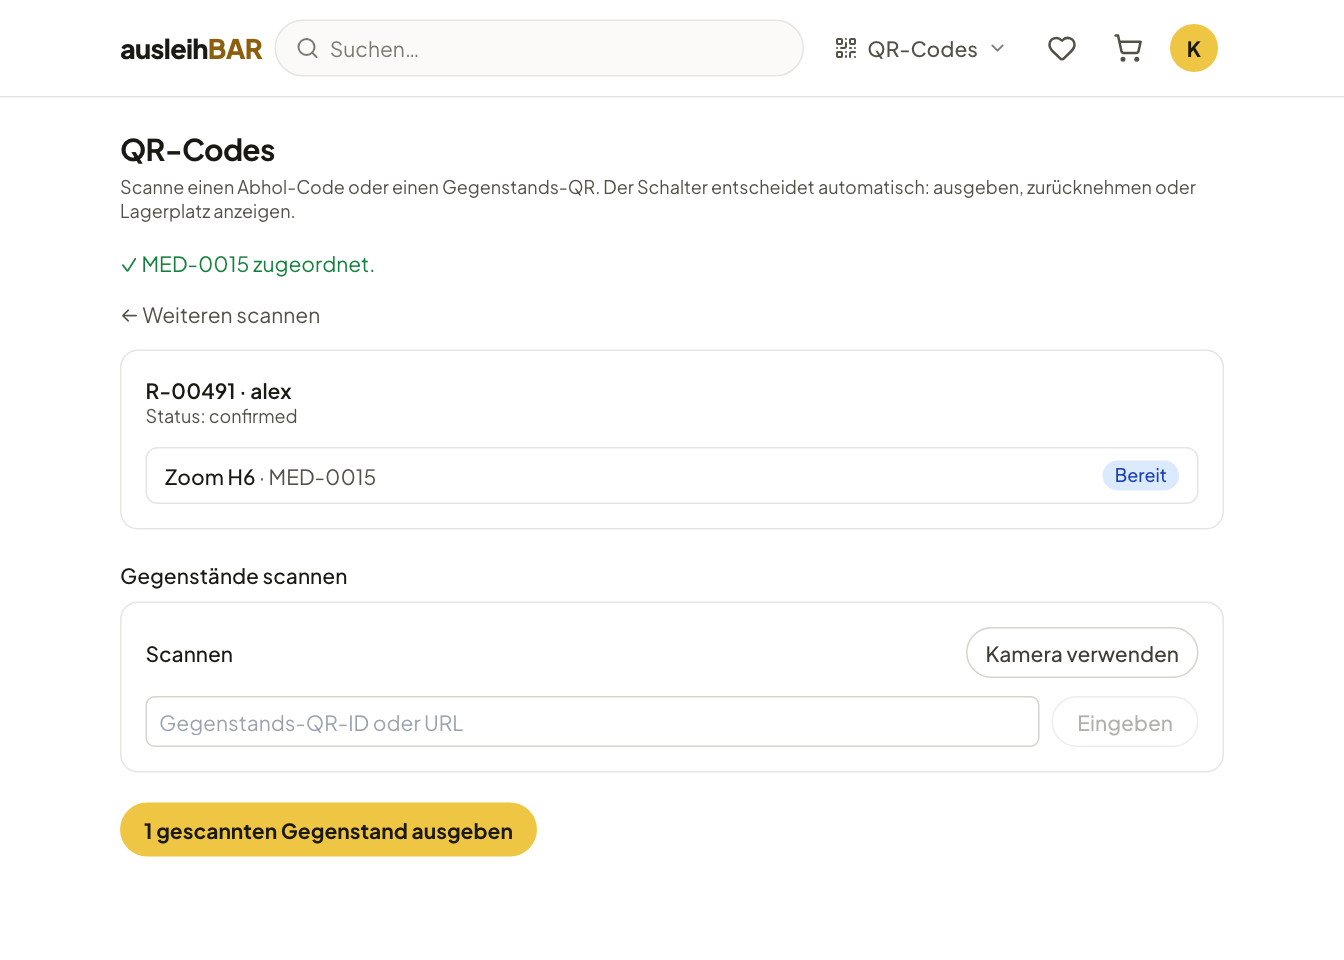
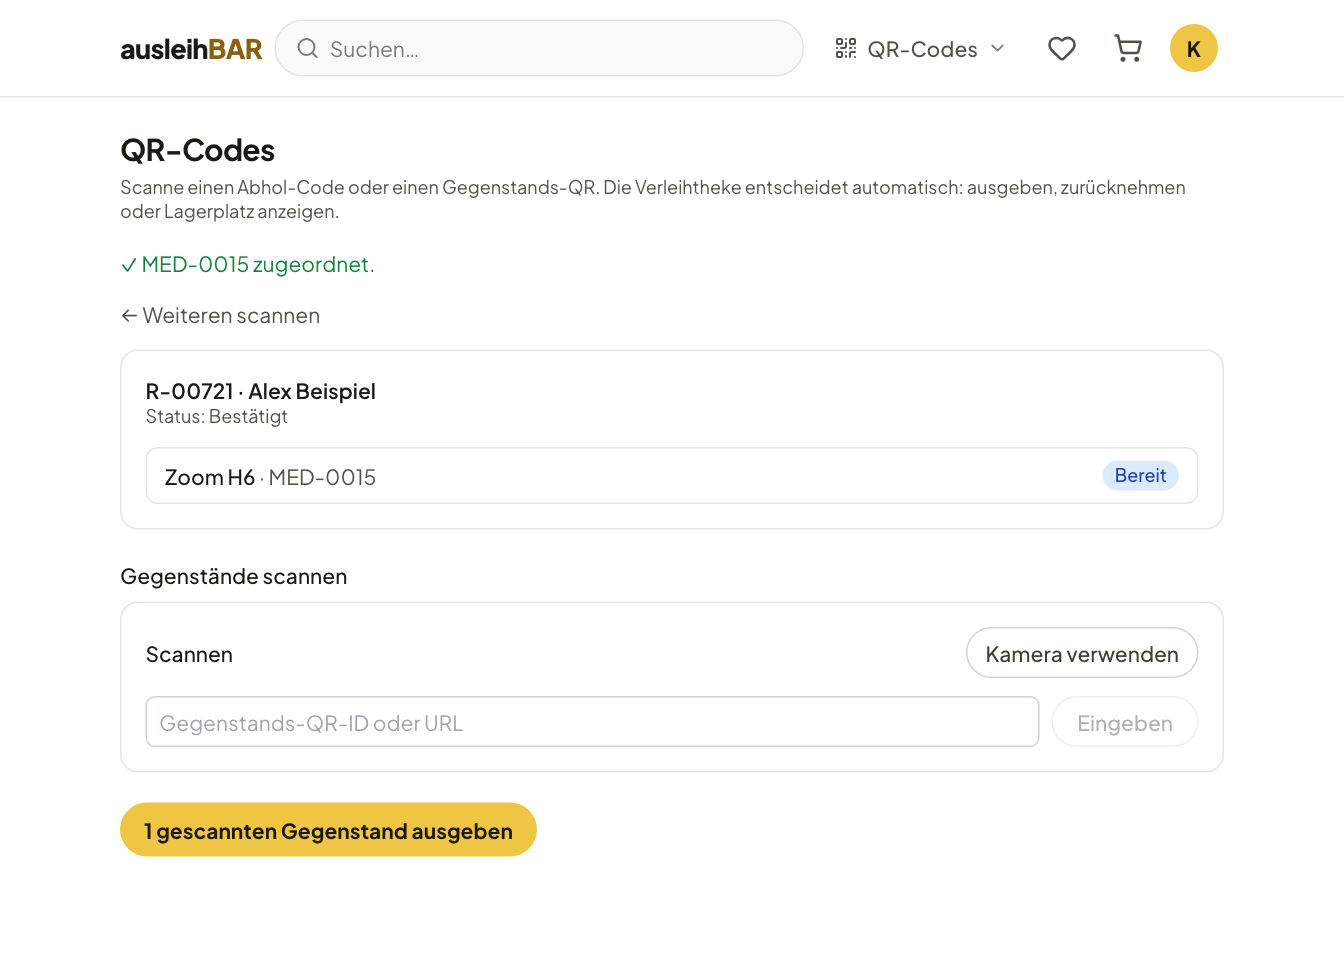
fix(frontend): QR page shows the borrower's name and a translated status
Also "Die Verleihtheke entscheidet" instead of "Der Schalter" in the hint.

Changed region(s): [[0.4688, 0.1875, 0.9062, 0.2188], [0.0938, 0.2188, 0.25, 0.25], [0.1562, 0.4062, 0.2812, 0.4375]]

diff --git a/frontend/src/pages/QrHandoutPage.tsx b/frontend/src/pages/QrHandoutPage.tsx
@@ -12,6 +12,7 @@ import { ReturnDialog } from "../components/BookingRow";
 import { OnsiteTag } from "../components/OnsiteTag";
 import { WarningNotice } from "../components/WarningNotice";
 import { parseResourceQr } from "../qrScan";
+import { bookingStatusLabel, bookingUseKind } from "../bookingStatus";
 import type {
   BookingItem,
   HandoutResource,
@@ -77,7 +78,7 @@ export function QrHandoutPage() {
           ok: true,
           text: t("Loaded {{code}} for {{borrower}}.", {
             code: result.booking.code,
-            borrower: result.booking.borrower,
+            borrower: result.booking.borrower_name || result.booking.borrower,
           }),
         });
       }
@@ -337,8 +338,8 @@ export function QrHandoutPage() {
       {view === "handout" && booking && (
         <div className="space-y-5">
           <section className="rounded-xl border border-slate-200 p-4 dark:border-slate-800">
-            <p className="text-sm font-semibold text-slate-900 dark:text-slate-100">{booking.code} · {booking.borrower}</p>
-            <p className="text-xs text-slate-600 dark:text-slate-300">{t("Status: {{status}}", { status: booking.status })}</p>
+            <p className="text-sm font-semibold text-slate-900 dark:text-slate-100">{booking.code} · {booking.borrower_name || booking.borrower}</p>
+            <p className="text-xs text-slate-600 dark:text-slate-300">{t("Status: {{status}}", { status: bookingStatusLabel(booking.status, bookingUseKind(booking)) })}</p>
             <ul className="mt-3 space-y-1">
               {items.map((item) => (
                 <li
@@ -403,7 +404,7 @@ export function QrHandoutPage() {
         <div className="space-y-5">
           <section className="rounded-xl border border-slate-200 p-4 dark:border-slate-800">
             <p className="text-sm font-semibold text-slate-900 dark:text-slate-100">
-              {t("Take back")} · {booking.code} · {booking.borrower}
+              {t("Take back")} · {booking.code} · {booking.borrower_name || booking.borrower}
             </p>
             <p className="text-xs text-slate-600 dark:text-slate-300">
               {t("Check the devices to take back (tap or scan), then complete the return.")}
